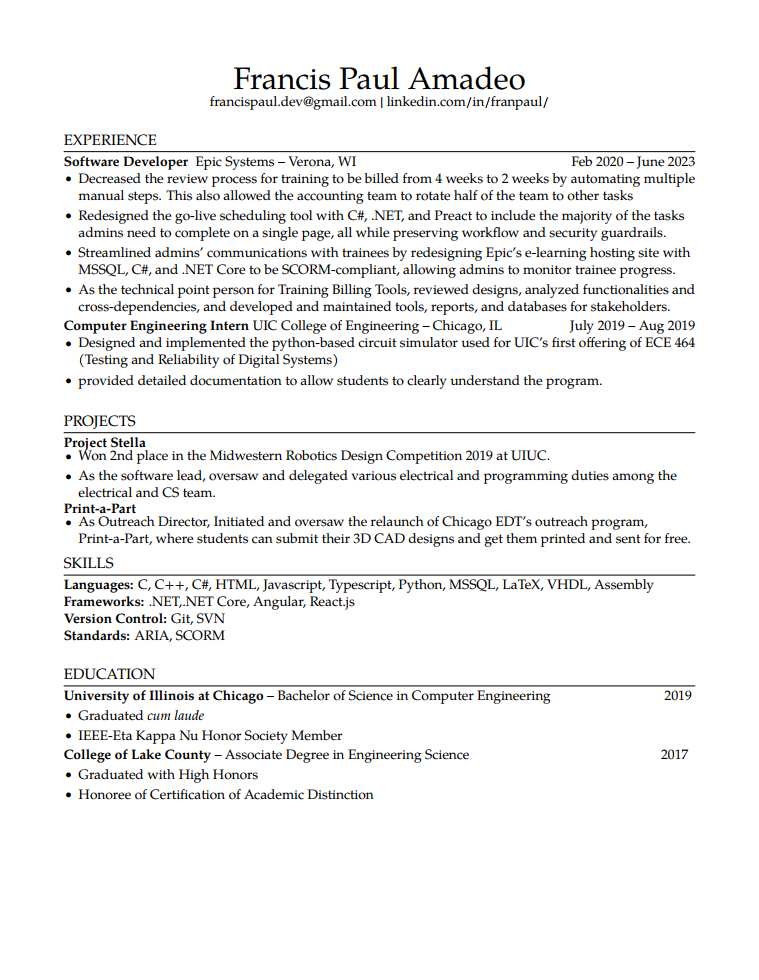
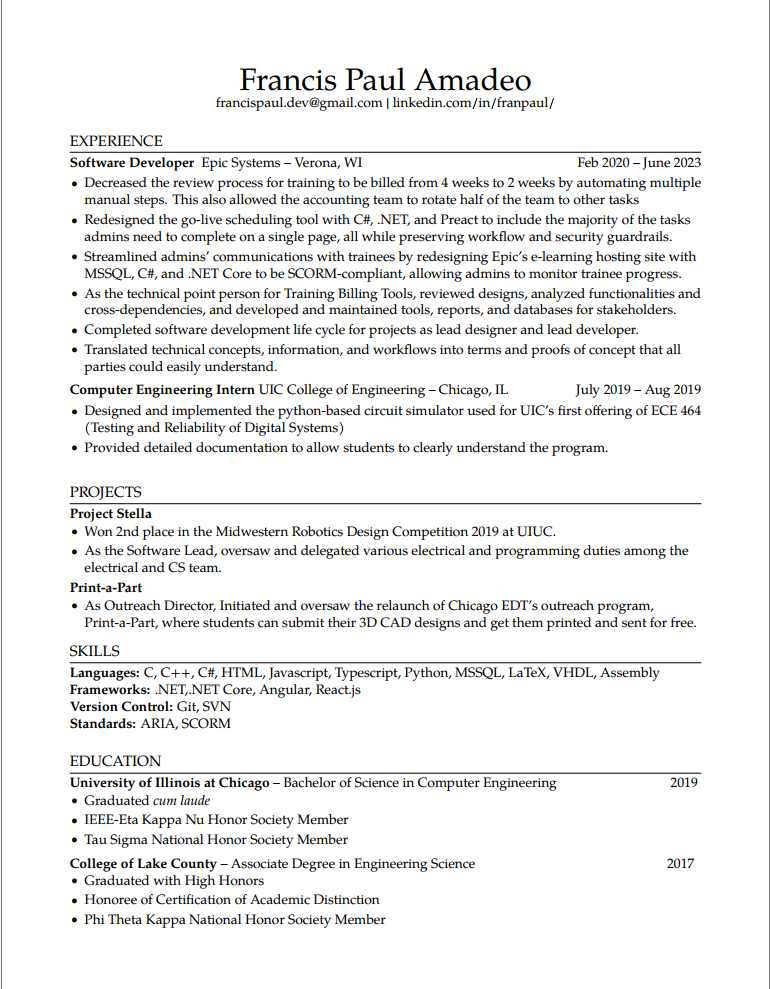
More spacing and capitalization fixes.

diff --git a/Amadeo_resume.tex b/Amadeo_resume.tex
@@ -56,31 +56,31 @@
 
 \section*{EXPERIENCE}
 \subheading{Software Developer}{ Epic Systems -- Verona, WI}{Feb 2020 -- June 2023 \\}
-\vspace{-10pt}
+\vspace{-5pt}
 \begin{itemize}
   \item Decreased the review process for training to be billed from 4 weeks to 2 weeks by automating multiple manual steps. This also allowed the accounting team to rotate half of the team to other tasks
   \item Redesigned the go-live scheduling tool with C\#, .NET, and Preact to include the majority of the tasks admins need to complete on a single page, all while preserving workflow and security guardrails.
   \item Streamlined admins' communications with trainees by redesigning Epic's e-learning hosting site with MSSQL, C\#, and .NET Core to be SCORM-compliant, allowing admins to monitor trainee progress.
   \item As the technical point person for Training Billing Tools, reviewed designs, analyzed functionalities and cross-dependencies, and developed and maintained tools, reports, and databases for stakeholders.
-        %\item Completed software development life cycle for projects as lead designer and lead developer.
+  \item Completed software development life cycle for projects as lead designer and lead developer.
+  \item Translated technical concepts, information, and workflows into terms and proofs of concept that all parties could easily understand.
         %\item Coordinated deployments of new software, feature updates, and fixes.
         %\item Met with SMEs, stakeholders and developers regularly to ensure project requirements and timelines are met by reducing technical complexity without sacrificing functionality to the software.
-        % \item Translated technical concepts, information, and workflows into terms and proofs of concept that all parties could easily understand.
         %\item Developed conversion and system implementation plans.
         %\item Went on rotational support for the EpicU application.
 
 \end{itemize}
-\vspace{-10pt}
+\vspace{-5pt}
 \subheading{Computer Engineering Intern}{UIC College of Engineering -- Chicago, IL}{ July 2019 -- Aug 2019 \\}
-\vspace{-10pt}
+\vspace{-5pt}
 \begin{itemize}
   \item Designed and implemented the python-based circuit simulator used for UIC's first offering of ECE 464 (Testing and Reliability of Digital Systems)
-  \item provided detailed documentation to allow students to clearly understand the program.
+  \item Provided detailed documentation to allow students to clearly understand the program.
 \end{itemize}
-\vspace{-10pt}
+\vspace{-5pt}
 \begin{comment}
 \subheading{Engineering Student Ambassador/Mentor}{UIC College of Engineering}{July 2019 -- Aug 2019 \\}
-\vspace{-10pt}
+\vspace{-5pt}
 \begin{itemize}
   \item Taught review classes and workshops on Math, Physics, Chemistry, Robotics, Circuits,among others, for 18 incoming freshmen.
   \item Guided my personal mentee’s success and first year experience at the University
@@ -91,21 +91,21 @@
 \section{PROJECTS}
 \subheading{Project Stella}{}{}
 %engineering.uic.edu/news-stories/strong-showing-by-edt-robots-at-engineering-competition/ \\
-\vspace{-10pt}
+\vspace{-5pt}
 \begin{itemize}
   \item Won 2nd place in the Midwestern Robotics Design Competition 2019 at UIUC.
-  \item As the software lead,  oversaw and delegated various electrical and programming duties among the electrical and CS team.
+  \item As the Software Lead,  oversaw and delegated various electrical and programming duties among the electrical and CS team.
 \end{itemize}
-\vspace{-10pt}
+\vspace{-5pt}
 \subheading{Print-a-Part}{}{}
-\vspace{-10pt}
+\vspace{-5pt}
 \begin{itemize}
   \item  As Outreach Director, Initiated and oversaw the relaunch of Chicago EDT's outreach program, Print-a-Part, where students can submit their 3D CAD designs and get them printed and sent for free.
 \end{itemize}
 \vspace{-10pt}
 \begin{comment}
 \{}{}{NASA Robot Mining Competition}{-- Team Lunabotics} \\
-\vspace{-10pt}
+\vspace{-5pt}
 \begin{itemize}
   \item  Initiated and oversaw the conversion of Chicago EDT's  existing assets from Altium Designer to Autodesk EAGLE \\
 \end{itemize}
@@ -113,7 +113,7 @@
 \end{comment}
 %
 %--------SKILLS------------
-\vspace{-10pt}
+\vspace{-5pt}
 \section*{SKILLS}
 \textbf{Languages:} C, C++, C\#, HTML, Javascript, Typescript, Python, MSSQL, LaTeX, VHDL, Assembly \\
 \textbf{Frameworks:} .NET,.NET Core, Angular, React.js \\
@@ -131,15 +131,15 @@
 \begin{itemize}
   \item Graduated \textit{cum laude}
   \item IEEE-Eta Kappa Nu Honor Society Member \\ %etakappanu.students.uic.edu
-        %\item Tau Sigma National Honor Society Member
+  \item Tau Sigma National Honor Society Member
 \end{itemize}
-\vspace{-10pt}
+\vspace{-5pt}
 \subheading{College of Lake County}{-- Associate Degree in Engineering Science}{2017 } \\
 \vspace{-8pt}
 \begin{itemize}
   \item Graduated with High Honors
   \item Honoree of Certification of Academic Distinction
-        %\item Phi Theta Kappa National Honor Society Member
+  \item Phi Theta Kappa National Honor Society Member
 \end{itemize}
 \vspace{-10pt}
 %-------------------------------------------
